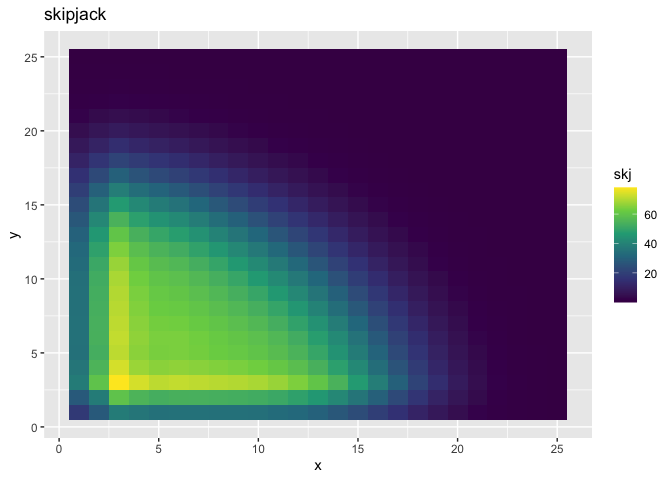
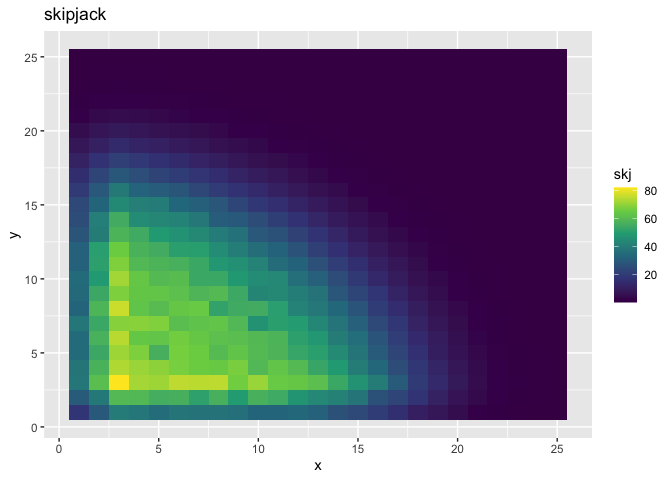
spatial catchability implemented. Closes  #35

diff --git a/README.md b/README.md
@@ -88,12 +88,12 @@ unfished conditions
 ``` r
 library(marlin)
 library(tidyverse)
-#> ── Attaching packages ────────
+#> ── Attaching packages ─────────────────────────────────────────────────────────────────── tidyverse 1.3.0 ──
 #> ✓ ggplot2 3.3.2     ✓ purrr   0.3.4
 #> ✓ tibble  3.0.3     ✓ dplyr   1.0.1
 #> ✓ tidyr   1.1.1     ✓ stringr 1.4.0
 #> ✓ readr   1.3.1     ✓ forcats 0.5.0
-#> ── Conflicts ─────────────────
+#> ── Conflicts ────────────────────────────────────────────────────────────────────── tidyverse_conflicts() ──
 #> x dplyr::filter() masks stats::filter()
 #> x dplyr::lag()    masks stats::lag()
 options(dplyr.summarise.inform = FALSE)
@@ -181,14 +181,13 @@ fauna <-
 #> ● Found: 1 
 #> ● Not Found: 0
 Sys.time() - a
-#> Time difference of 12.72633 secs
+#> Time difference of 9.439568 secs
 
 # create a fleets object, which is a list of lists (of lists). Each fleet has one element, 
 # with lists for each species inside there. Price specifies the price per unit weight of that 
 # species for that fleet
 # sel_form can be one of logistic or dome
 
-# XX Bbroken through here XX
 
 fleets <- list(
   "longline" = create_fleet(
@@ -247,7 +246,7 @@ a <- Sys.time()
 fleets <- tune_fleets(fauna, fleets) 
 
 Sys.time() - a
-#> Time difference of 8.450865 secs
+#> Time difference of 8.900976 secs
 
 
 
@@ -262,7 +261,7 @@ storage <- simmar(fauna = fauna,
                   years = years)
 
 Sys.time() - a
-#> Time difference of 2.961298 secs
+#> Time difference of 3.271238 secs
   
 
 # process results, will write some wrappers to automate this
@@ -335,7 +334,7 @@ mpa_storage <- simmar(
 )
 
 Sys.time() - a
-#> Time difference of 3.139336 secs
+#> Time difference of 3.096233 secs
 
 ssb_skj <- rowSums(mpa_storage[[steps]]$skipjack$ssb_p_a)
 
@@ -428,11 +427,6 @@ plot(skj_trajectory)
 
 <img src="man/figures/README-unnamed-chunk-2-8.png" width="100%" />
 
-Ah interesting, so need to think through the movement a bit more: the
-problem is that movement is effectively 0 for the really good habitats:
-critters stay put once they get there. Is that so bad? Problem is that
-it doesn’t really allow for spillover.
-
 # Other Examples
 
 ## Seasonal adult movement and different forms of density dependence
@@ -492,7 +486,7 @@ fauna <-
 #> ● Found: 1 
 #> ● Not Found: 0
 Sys.time() - a
-#> Time difference of 4.742096 secs
+#> Time difference of 3.758649 secs
 
 
 fleets <- list(
@@ -521,7 +515,7 @@ a <- Sys.time()
 fleets <- tune_fleets(fauna, fleets) 
 
 Sys.time() - a
-#> Time difference of 2.746505 secs
+#> Time difference of 2.490647 secs
 
 
 
@@ -536,7 +530,7 @@ storage <- simmar(fauna = fauna,
                   years = years)
 
 Sys.time() - a
-#> Time difference of 1.056538 secs
+#> Time difference of 0.9310691 secs
 
 # storage[[1]]$skipjack$n_p_a %>% View()
 # process results, will write some wrappers to automate this
@@ -585,7 +579,7 @@ skipjack_habitat <- expand_grid(x = 1:resolution, y = 1:resolution) %>%
 
 
 skipjack_q <- expand_grid(x = 1:resolution, y = 1:resolution) %>%
-  dplyr::mutate(habitat =  dnorm((x ^ 2 + y ^ 2), 2, 200)) %>% 
+  dplyr::mutate(habitat = rlnorm(resolution^2)) %>% 
   pivot_wider(names_from = y, values_from = habitat) %>% 
   select(-x) %>% 
   as.matrix()
@@ -624,7 +618,7 @@ fauna <-
 #> ● Found: 1 
 #> ● Not Found: 0
 Sys.time() - a
-#> Time difference of 5.461048 secs
+#> Time difference of 3.19205 secs
 
 
 fleets <- list(
@@ -654,7 +648,7 @@ a <- Sys.time()
 fleets <- tune_fleets(fauna, fleets) 
 
 Sys.time() - a
-#> Time difference of 2.645549 secs
+#> Time difference of 2.324962 secs
 
 
 
@@ -669,10 +663,8 @@ storage <- simmar(fauna = fauna,
                   years = years)
 
 Sys.time() - a
-#> Time difference of 1.069403 secs
+#> Time difference of 0.941124 secs
 
-# storage[[1]]$skipjack$n_p_a %>% View()
-# process results, will write some wrappers to automate this
 ssb_skj <- rowSums(storage[[steps]]$skipjack$ssb_p_a)
 
 check <- expand_grid(x = 1:resolution, y = 1:resolution) %>%

diff --git a/NEWS.md b/NEWS.md
@@ -1,0 +1,3 @@
+# marlin 0.0.0.9000
+
+* Added a `NEWS.md` file to track changes to the package.
